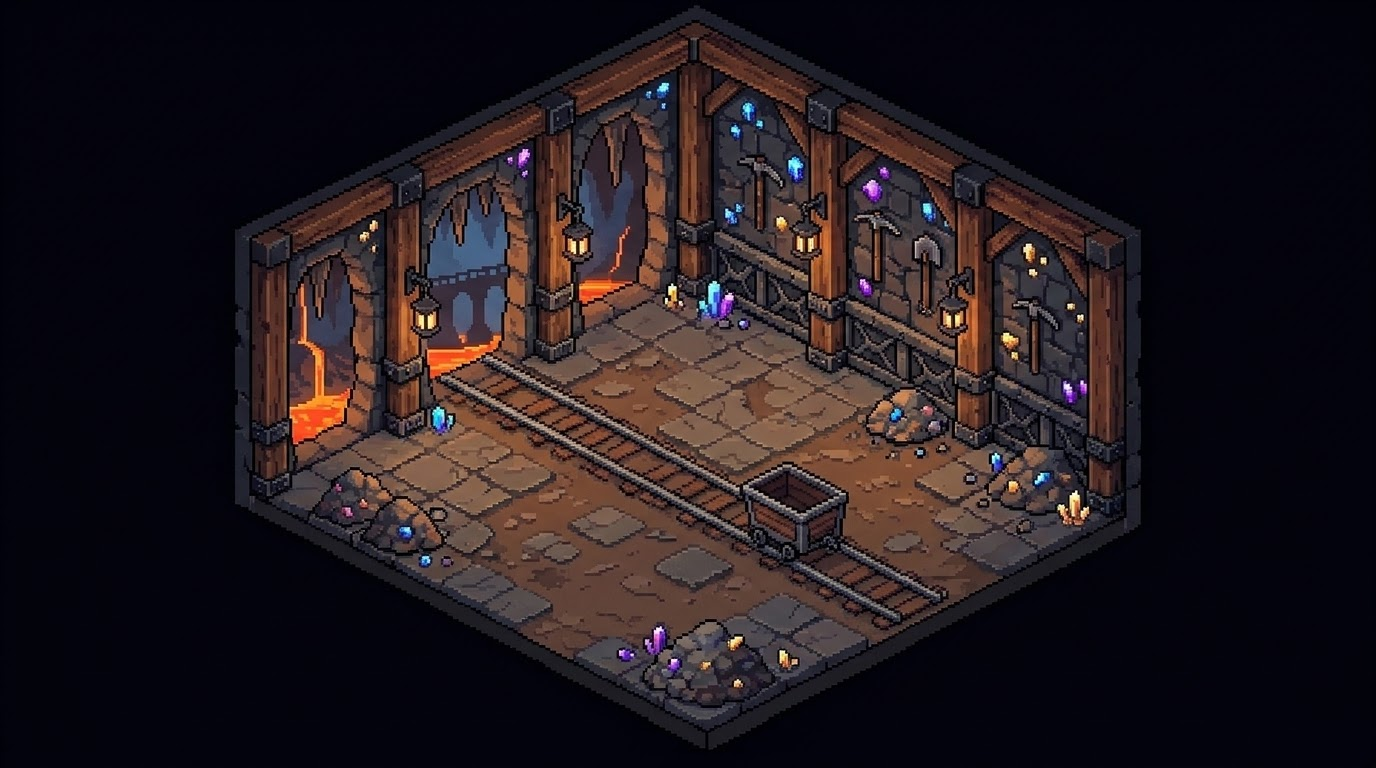
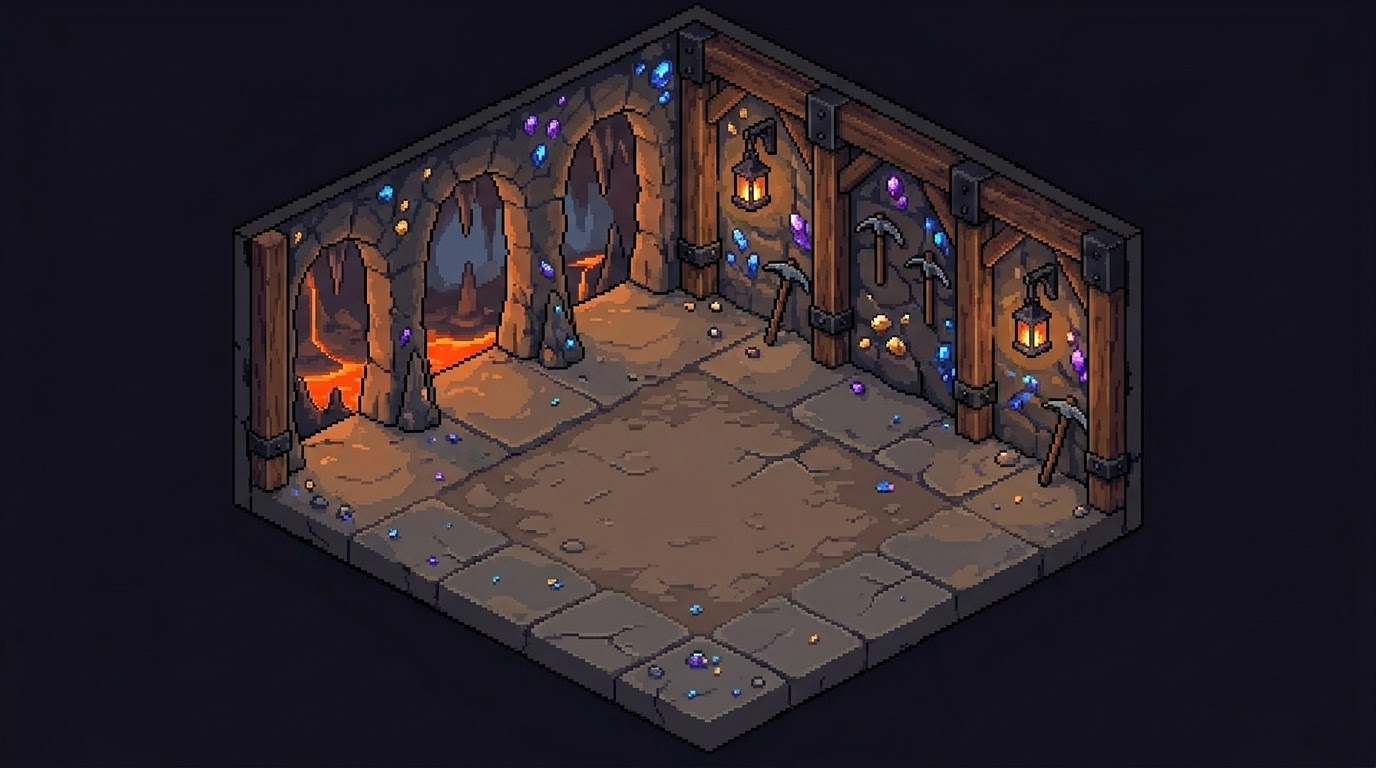
テーマ第2弾統合: レトロ未来/Tokyoネオン + ドワーフ鉱山を空床版に
- room-retrofuture.png / room-tokyo.png を ROOM_TEX/SERIES/ROOM_THEMES/BG_META/preload に登録(全17テーマ)
- ドワーフ鉱山を空床版に更新(壁踏襲・床は模様のみ)

Changed region(s): [[0.1562, 0.0312, 0.8438, 0.9688]]

diff --git a/factory-phaser.html b/factory-phaser.html
@@ -138,6 +138,8 @@ const SERIES={
   dwarf:{n:'⛏ ドワーフ鉱山', price:6000, sky:'dwarf',    floor:'wood',    decos:[]},
   hell:{n:'😈 地獄',         price:6000, sky:'hell',     floor:'wood',    decos:[]},
   steampunk:{n:'⚙ スチパン', price:6000, sky:'steampunk',floor:'wood',    decos:[]},
+  retrofuture:{n:'🛸 レトロ未来', price:6000, sky:'retrofuture',floor:'wood', decos:[]},
+  tokyo:{n:'🌃 Tokyo',      price:6000, sky:'tokyo',    floor:'wood',    decos:[]},
 };
 
 let G={ pity:0, inv:{}, prodP:90, money:0, machines:[{type:'red',lvl:1}], belts:0, decos:{},
@@ -322,9 +324,9 @@ function applyOwned(){ const s=window.__scene; if(!s)return;
   reconcileStock(); saveGame();
   s.setSkyTheme(G.bg); s.setFloor(G.floor); s.applySkins(G.skins); }
 /* ===== 編集パレット: 大項目→在庫から選ぶ→床クリックで設置 ===== */
-const ROOM_THEMES=['arabia','undersea','japan','china','diner','fantasy','scifi','cabin','dino','haunted','pirate','circuit','dwarf','hell','steampunk'];
+const ROOM_THEMES=['arabia','undersea','japan','china','diner','fantasy','scifi','cabin','dino','haunted','pirate','circuit','dwarf','hell','steampunk','retrofuture','tokyo'];
 const SKY_THEMES=['blue','sunset','night','space','aurora'];
-const BG_META={auto:{e:'🕐',n:'標準'},blue:{e:'☀',n:'快晴'},sunset:{e:'🌆',n:'夕焼け'},night:{e:'🌙',n:'星空'},space:{e:'🌌',n:'宇宙'},aurora:{e:'🌈',n:'オーロラ'},arabia:{e:'🕌',n:'アラビア'},undersea:{e:'🐚',n:'海底'},japan:{e:'⛩',n:'日本'},china:{e:'🐉',n:'中華'},diner:{e:'🍔',n:'ダイナー'},fantasy:{e:'🧙',n:'ファンタジー'},scifi:{e:'🚀',n:'SF宇宙'},cabin:{e:'🌲',n:'森コテージ'},dino:{e:'🦖',n:'ダイナソー'},haunted:{e:'👻',n:'幽霊屋敷'},pirate:{e:'🏴☠',n:'海賊船'},circuit:{e:'🏁',n:'サーキット'},dwarf:{e:'⛏',n:'ドワーフ鉱山'},hell:{e:'😈',n:'地獄'},steampunk:{e:'⚙',n:'スチパン'}};
+const BG_META={auto:{e:'🕐',n:'標準'},blue:{e:'☀',n:'快晴'},sunset:{e:'🌆',n:'夕焼け'},night:{e:'🌙',n:'星空'},space:{e:'🌌',n:'宇宙'},aurora:{e:'🌈',n:'オーロラ'},arabia:{e:'🕌',n:'アラビア'},undersea:{e:'🐚',n:'海底'},japan:{e:'⛩',n:'日本'},china:{e:'🐉',n:'中華'},diner:{e:'🍔',n:'ダイナー'},fantasy:{e:'🧙',n:'ファンタジー'},scifi:{e:'🚀',n:'SF宇宙'},cabin:{e:'🌲',n:'森コテージ'},dino:{e:'🦖',n:'ダイナソー'},haunted:{e:'👻',n:'幽霊屋敷'},pirate:{e:'🏴☠',n:'海賊船'},circuit:{e:'🏁',n:'サーキット'},dwarf:{e:'⛏',n:'ドワーフ鉱山'},hell:{e:'😈',n:'地獄'},steampunk:{e:'⚙',n:'スチパン'},retrofuture:{e:'🛸',n:'レトロ未来'},tokyo:{e:'🌃',n:'Tokyo'}};
 function ownedBgs(){ const a=['auto']; for(const k of SKY_THEMES) if(G.bgOwned.includes(k)) a.push(k); for(const k of ROOM_THEMES) if(G.seriesOwned.includes(k)) a.push(k); return a; }
 function applyBg(k){ G.bg=k; if(window.__scene){ window.__scene.setSkyTheme(k); window.__scene.setFloor(ROOM_THEMES.includes(k)?'wood':G.floor); } saveGame(); updateBadge(); }
 const paletteEl=document.getElementById('palette');

diff --git a/game/main.js b/game/main.js
@@ -50,7 +50,8 @@ const MACHS_JP = { red:'抽出機', green:'成形機', blue:'演算機', yellow:
 // テーマ専用の部屋画像(Stitch製・壁/床/窓を焼き込み)。ここにあるテーマは背景ごと差し替える
 const ROOM_TEX = { arabia:'room_arabia', undersea:'room_undersea', japan:'room_japan', china:'room_china',
   diner:'room_diner', fantasy:'room_fantasy', scifi:'room_scifi', cabin:'room_cabin', dino:'room_dino',
-  haunted:'room_haunted', pirate:'room_pirate', circuit:'room_circuit', dwarf:'room_dwarf', hell:'room_hell', steampunk:'room_steampunk' };
+  haunted:'room_haunted', pirate:'room_pirate', circuit:'room_circuit', dwarf:'room_dwarf', hell:'room_hell', steampunk:'room_steampunk',
+  retrofuture:'room_retrofuture', tokyo:'room_tokyo' };
 const PROP_NAMES = ['vase','palm','rug','flantern','fountain','chest','cushion','bonsai','lantern','pedestal','flower','screen'];  // Stitch製 装飾プロップ
 // エージェントのスキン(頭アクセ e + 体の色 body)。クリックで巡回・プロジェクト単位で永続化。
 const SKINS = [
@@ -86,7 +87,7 @@ class Main extends Phaser.Scene {
     this.load.image('room_scifi','assets/room-scifi.png');
     this.load.image('room_cabin','assets/room-cabin.png');
     this.load.image('room_dino','assets/room-dino.png');
-    for(const n of ['haunted','pirate','circuit','dwarf','hell','steampunk']) this.load.image('room_'+n, `assets/room-${n}.png`);
+    for(const n of ['haunted','pirate','circuit','dwarf','hell','steampunk','retrofuture','tokyo']) this.load.image('room_'+n, `assets/room-${n}.png`);
     for(const n of PROP_NAMES) this.load.image('prop_'+n, `assets/prop_${n}.png`);
     for(const m of MACHINES) this.load.image(m, `assets/obj_${m}_d0.png`);
     for(const d of DECOR) this.load.image('dec_'+d, `assets/obj_${d}.png`);
